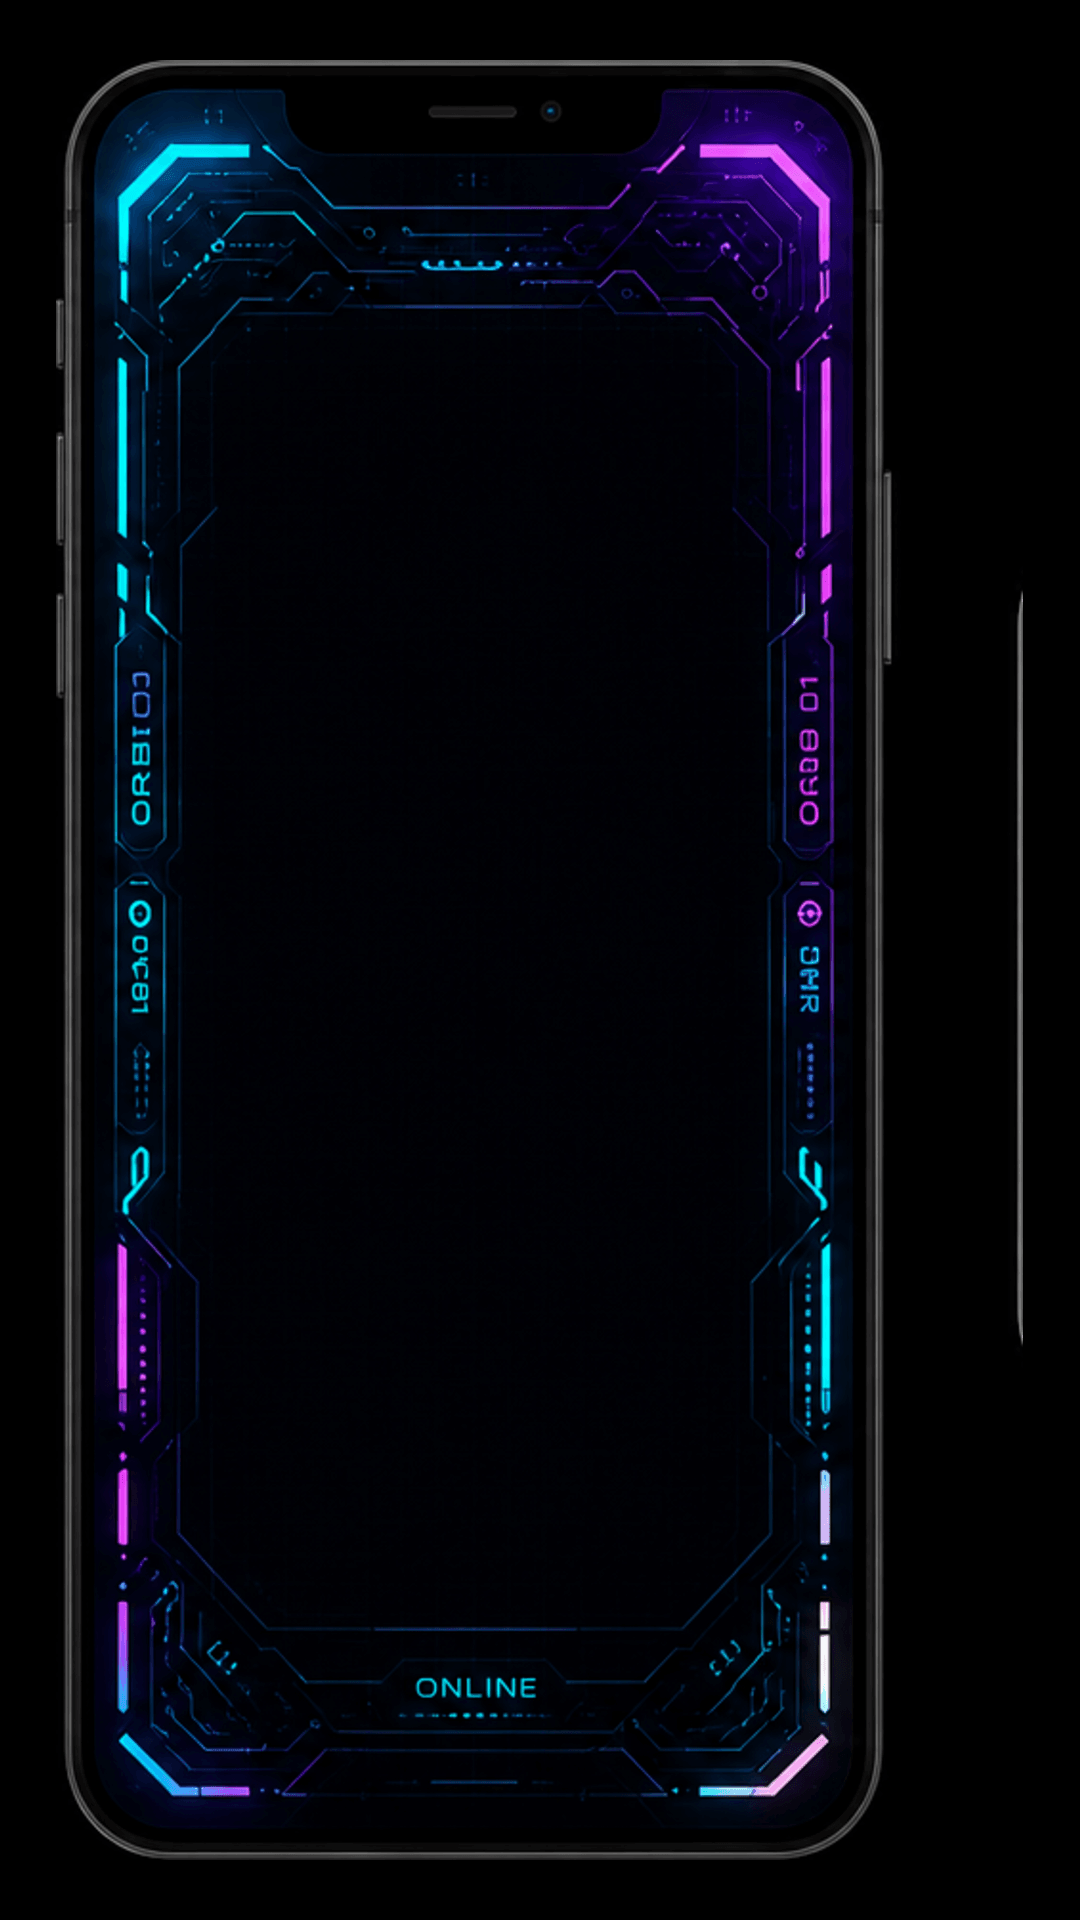
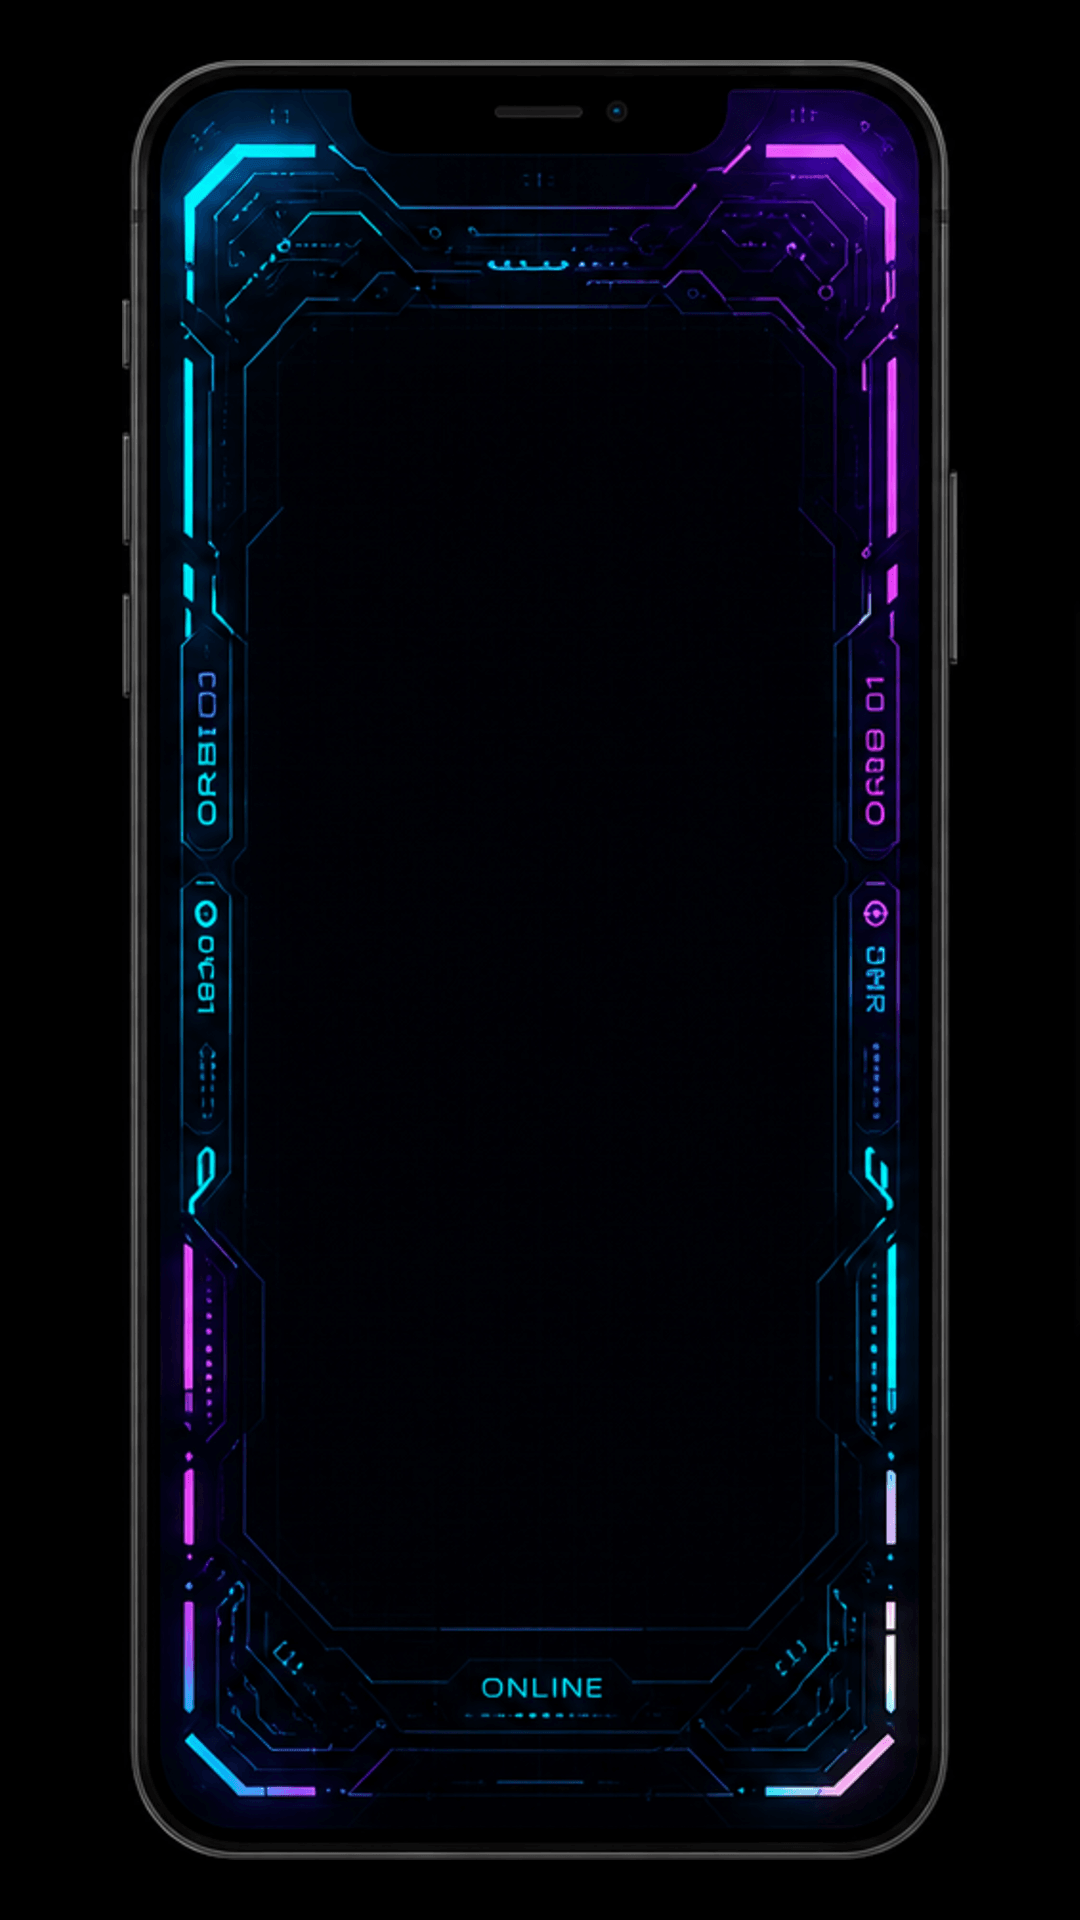
修复表盘兼容性问题

Changed region(s): [[0.0306, 0.0312, 0.8861, 0.9688], [0.9167, 0.3125, 0.9472, 0.6875], [0.3972, 0.0312, 0.4583, 0.0625]]

diff --git a/.agents/skills/clock-ui/SKILL.md b/.agents/skills/clock-ui/SKILL.md
@@ -1,0 +1,34 @@
+---
+name: clock-ui
+description: Use when modifying this Clock HarmonyOS app's clock faces, poster clocks, digital time displays, widget clocks, or ArkUI layouts that render HH:mm or HH:mm:ss time text.
+---
+
+# Clock UI Rules
+
+## Hard Time Display Rule
+
+Any visible clock time rendered as `HH:mm` or `HH:mm:ss` must stay on one line.
+
+- Do not change an existing clock face's overall layout, orientation, alignment, spacing, or visual hierarchy just to satisfy this rule.
+- Do set `maxLines(1)` on `Text` or `TextClock` time displays when the API supports it.
+- If the time may not fit, first shrink the visible time text with `minFontSize` / `maxFontSize` or reserve stable width for the time text.
+- For card-based clocks, preserve the existing card arrangement; only constrain the text inside each card unless the user explicitly asks to redesign the layout.
+- Keeping seconds visually smaller is allowed, but the full minute value must remain visible.
+- For split time such as `HH:mm` plus small `:ss`, reserve stable width for the `HH:mm` part and never let it be compressed until minutes disappear.
+
+## Verification And Device Install
+
+After changing clock UI, build the debug HAP and install it to the connected phone with `hdc` directly. Do not use `./run-harmony.sh` for this workflow.
+
+```bash
+/Applications/DevEco-Studio.app/Contents/tools/node/bin/node /Applications/DevEco-Studio.app/Contents/tools/hvigor/bin/hvigorw.js assembleHap --mode module -p module=entry@default -p product=debug -p buildMode=debug --no-daemon
+
+/Applications/DevEco-Studio.app/Contents/sdk/default/openharmony/toolchains/hdc list targets
+/Applications/DevEco-Studio.app/Contents/sdk/default/openharmony/toolchains/hdc shell mkdir -p /data/local/tmp/clock_install
+/Applications/DevEco-Studio.app/Contents/sdk/default/openharmony/toolchains/hdc file send entry/build/debug/outputs/default/entry-default-signed.hap /data/local/tmp/clock_install/entry-default-signed.hap
+/Applications/DevEco-Studio.app/Contents/sdk/default/openharmony/toolchains/hdc shell bm install -p /data/local/tmp/clock_install/entry-default-signed.hap -r
+/Applications/DevEco-Studio.app/Contents/sdk/default/openharmony/toolchains/hdc shell rm -rf /data/local/tmp/clock_install
+/Applications/DevEco-Studio.app/Contents/sdk/default/openharmony/toolchains/hdc shell aa start -a EntryAbility -b com.hyx.clock
+```
+
+If multiple devices are connected, pass `-t <connectKey>` immediately after the `hdc` binary for all `hdc` commands.
